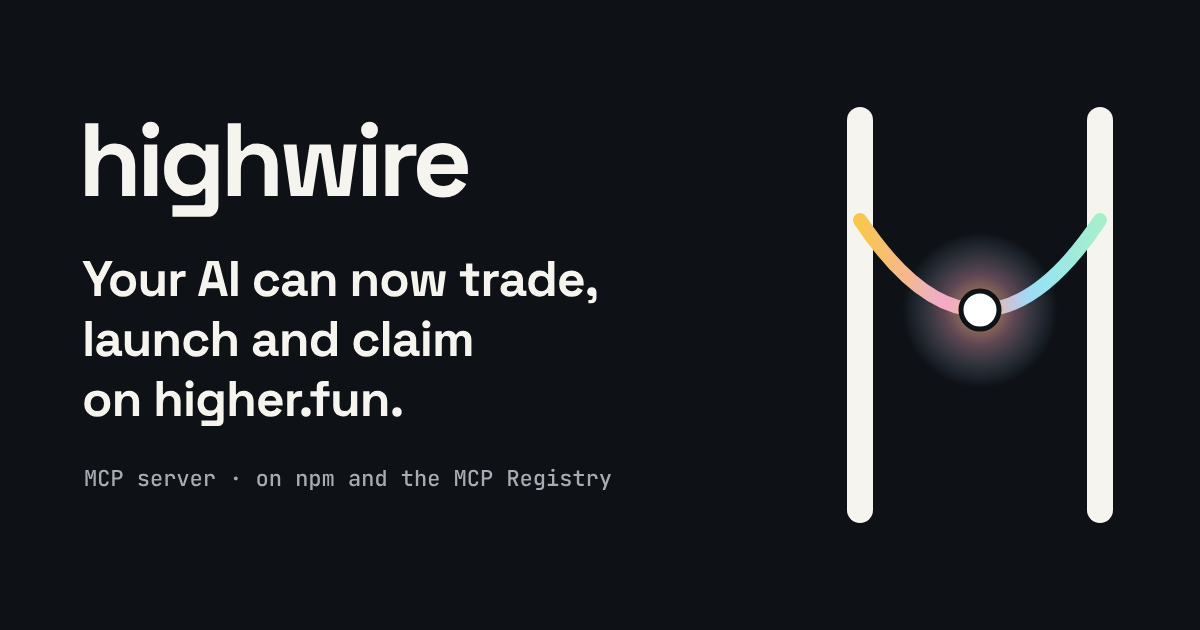
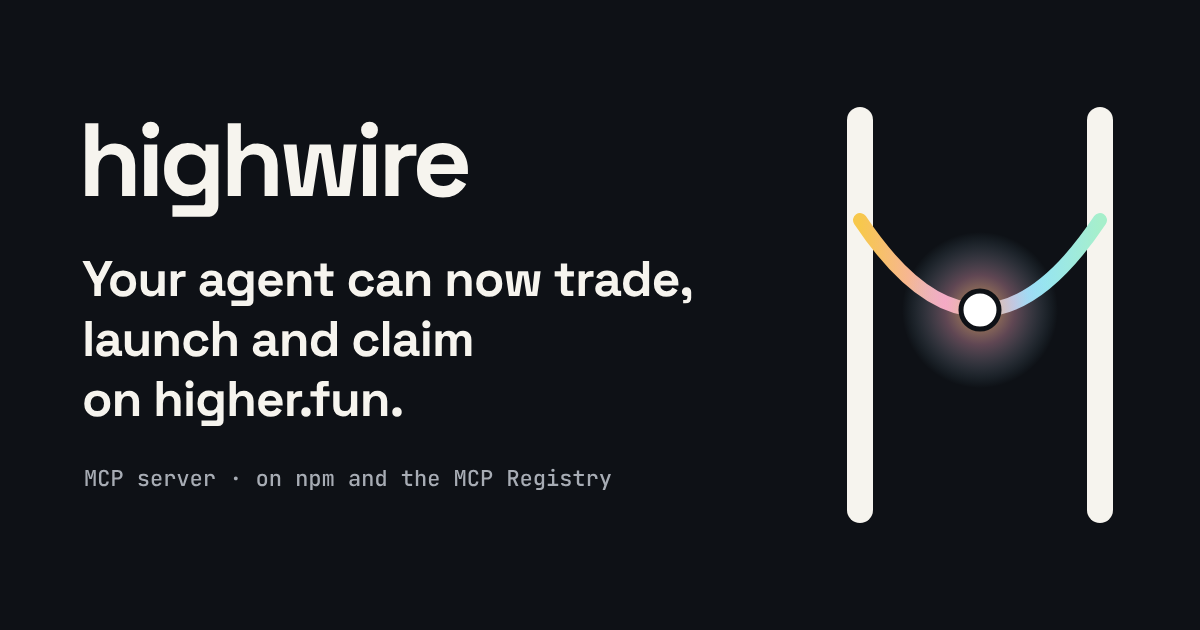
Say agent, not AI, on the link preview and in the site description

Changed region(s): [[0.1542, 0.4222, 0.5858, 0.4825]]

diff --git a/apps/web/app/layout.tsx b/apps/web/app/layout.tsx
@@ -10,7 +10,7 @@ const grotesk = Space_Grotesk({ subsets: ["latin"], weight: ["400", "500", "700"
 const mono = JetBrains_Mono({ subsets: ["latin"], weight: ["500"], variable: "--font-mono" });
 
 const description =
-  "Highwire is an MCP server that lets your AI trade, launch coins and claim creator fees on higher.fun, the open-source Solana launchpad: from any chat with a sign link, or on its own inside limits you set.";
+  "Highwire is an MCP server that lets your agent trade, launch coins and claim creator fees on higher.fun, the open-source Solana launchpad: from any chat with a sign link, or on its own inside limits you set.";
 
 export const metadata: Metadata = {
   metadataBase: new URL(SITE_URL),

diff --git a/brand/scripts/build.py b/brand/scripts/build.py
@@ -215,7 +215,7 @@ def build_svgs() -> dict[str, str]:
         f'<circle cx="980" cy="310" r="78" fill="url(#og-glow)"/>'
         f'<circle cx="980" cy="310" r="19" fill="#FFFFFF" stroke="{INK}" stroke-width="5"/>'
         + text_el("highwire", "grotesk", 700, 104, 78, 196, PAPER, -0.05)
-        + text_el("Your AI can now trade,", "grotesk", 700, 50, 82, 296, PAPER, -0.02)
+        + text_el("Your agent can now trade,", "grotesk", 700, 50, 82, 296, PAPER, -0.02)
         + text_el("launch and claim", "grotesk", 700, 50, 82, 356, PAPER, -0.02)
         + text_el("on higher.fun.", "grotesk", 700, 50, 82, 416, PAPER, -0.02)
         + text_el("MCP server \u00b7 on npm and the MCP Registry", "mono", 500, 22, 84, 486, "#A7ACB4")

diff --git a/CHANGELOG.md b/CHANGELOG.md
@@ -4,8 +4,8 @@ Every release of `highwire-core`, `highwire-agent`, `highwire-mcp` and the site 
 
 ## Unreleased
 
-- **A new link preview.** highwire.fun's card on X and elsewhere is now on ink, and says what Highwire does: your AI
-  can trade, launch and claim on higher.fun. The page description says the same, in place of the read-only wording
+- **A new link preview.** highwire.fun's card on X and elsewhere is now on ink, and says what Highwire does: your
+  agent can trade, launch and claim on higher.fun. The page description says the same, in place of the read-only wording
   from before the transaction tools.
 
 ## 0.4.2 (2026-11-06)
